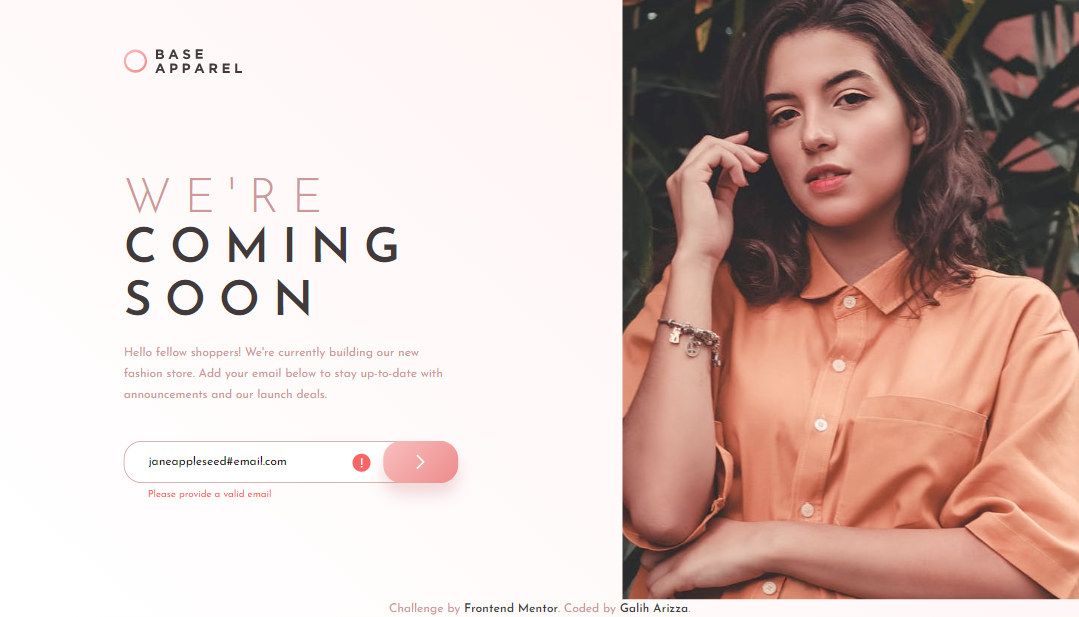
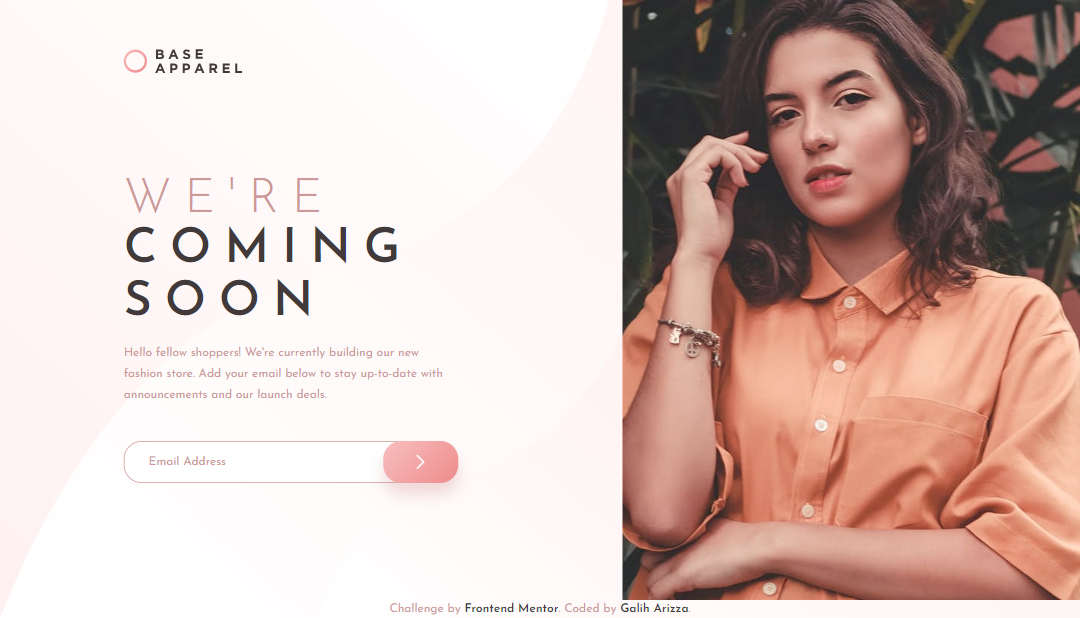
fixing background

diff --git a/src/styles/index.style.css b/src/styles/index.style.css
@@ -26,8 +26,11 @@
 
   @media (min-width: 1024px) {
     body {
-      background-image: url(../assets/images/bg-pattern-desktop.svg);
-      background: linear-gradient(221.42deg, #fff1f1 2.6%, #ffffff 96.36%);
+      background-image: url(../assets/images/bg-pattern-desktop.svg),
+        linear-gradient(221.42deg, #fff1f1 2.6%, #ffffff 96.36%);
+      background-repeat: no-repeat;
+      background-size: contain;
+      /* background: linear-gradient(221.42deg, #fff1f1 2.6%, #ffffff 96.36%); */
     }
   }
 }
